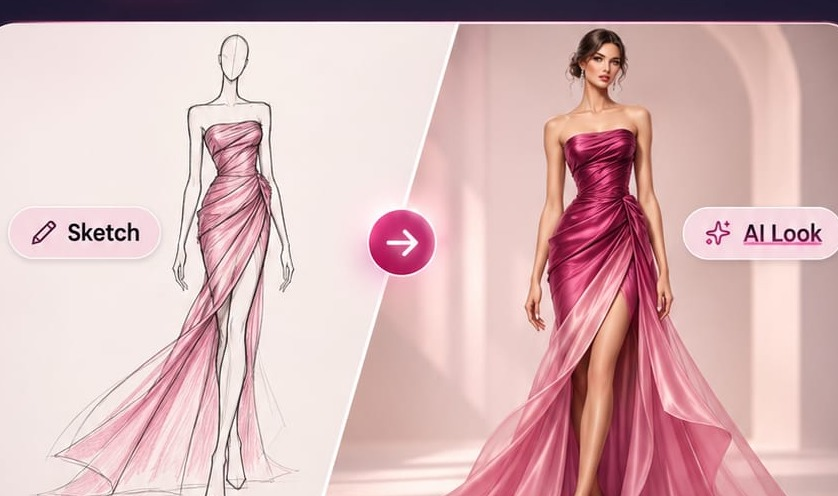
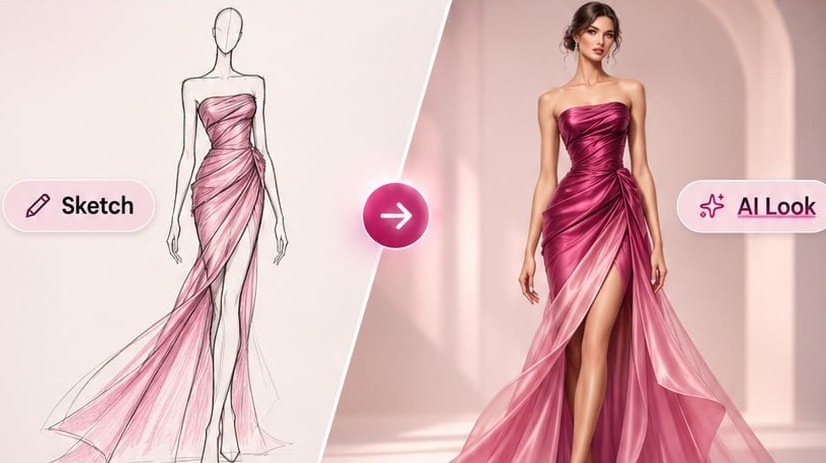
fix(web): fit Home hero composite flush inside its frame
Recrop the sketch→AI look asset and render it edge-to-edge in the
gallery viewport so it no longer floats with double padding/borders.

diff --git a/web-ui/src/shell/components/HomeBeforeAfterGallery.tsx b/web-ui/src/shell/components/HomeBeforeAfterGallery.tsx
@@ -98,7 +98,7 @@ export function HomeBeforeAfterGallery({ examples }: Props) {
           {catalog.map((example, i) => (
             <article
               key={example.id}
-              className={styles.slide}
+              className={example.composite ? styles.slideComposite : styles.slide}
               role="listitem"
               aria-label={
                 example.composite
@@ -107,7 +107,6 @@ export function HomeBeforeAfterGallery({ examples }: Props) {
               }
               data-testid={`home-gallery-slide-${example.id}`}
             >
-              <p className={styles.slideTitle}>{example.title}</p>
               {example.composite ? (
                 <figure className={styles.compositeFrame}>
                   <img
@@ -123,34 +122,37 @@ export function HomeBeforeAfterGallery({ examples }: Props) {
                   />
                 </figure>
               ) : (
-                <div className={styles.pair}>
-                  <figure className={styles.frame}>
-                    <img
-                      src={example.before.src}
-                      alt={example.before.alt}
-                      width={example.before.width}
-                      height={example.before.height}
-                      className={styles.image}
-                      loading={i === 0 ? 'eager' : 'lazy'}
-                      decoding="async"
-                      draggable={false}
-                    />
-                    <figcaption className={styles.caption}>Sketch</figcaption>
-                  </figure>
-                  <figure className={styles.frame}>
-                    <img
-                      src={example.after.src}
-                      alt={example.after.alt}
-                      width={example.after.width}
-                      height={example.after.height}
-                      className={styles.image}
-                      loading={i === 0 ? 'eager' : 'lazy'}
-                      decoding="async"
-                      draggable={false}
-                    />
-                    <figcaption className={styles.caption}>AI Look</figcaption>
-                  </figure>
-                </div>
+                <>
+                  <p className={styles.slideTitle}>{example.title}</p>
+                  <div className={styles.pair}>
+                    <figure className={styles.frame}>
+                      <img
+                        src={example.before.src}
+                        alt={example.before.alt}
+                        width={example.before.width}
+                        height={example.before.height}
+                        className={styles.image}
+                        loading={i === 0 ? 'eager' : 'lazy'}
+                        decoding="async"
+                        draggable={false}
+                      />
+                      <figcaption className={styles.caption}>Sketch</figcaption>
+                    </figure>
+                    <figure className={styles.frame}>
+                      <img
+                        src={example.after.src}
+                        alt={example.after.alt}
+                        width={example.after.width}
+                        height={example.after.height}
+                        className={styles.image}
+                        loading={i === 0 ? 'eager' : 'lazy'}
+                        decoding="async"
+                        draggable={false}
+                      />
+                      <figcaption className={styles.caption}>AI Look</figcaption>
+                    </figure>
+                  </div>
+                </>
               )}
             </article>
           ))}

diff --git a/web-ui/src/shell/components/HomeBeforeAfterGallery.module.css b/web-ui/src/shell/components/HomeBeforeAfterGallery.module.css
@@ -30,10 +30,11 @@
 
 .viewport {
   min-width: 0;
-  border-radius: 16px;
-  border: 1px solid rgba(255, 255, 255, 0.08);
-  background: rgba(255, 255, 255, 0.03);
+  border-radius: 18px;
+  border: 1px solid rgba(244, 114, 182, 0.28);
+  background: rgba(15, 22, 38, 0.55);
   overflow: hidden;
+  box-shadow: 0 12px 28px rgba(0, 0, 0, 0.28);
 }
 
 .track {
@@ -63,6 +64,16 @@
   box-sizing: border-box;
 }
 
+.slideComposite {
+  flex: 0 0 100%;
+  width: 100%;
+  min-width: 100%;
+  scroll-snap-align: start;
+  scroll-snap-stop: always;
+  padding: 0;
+  box-sizing: border-box;
+}
+
 .slideTitle {
   margin: 0 0 8px;
   font-size: 12px;
@@ -79,20 +90,20 @@
 .compositeFrame {
   margin: 0;
   min-width: 0;
+  width: 100%;
+  line-height: 0;
 }
 
 .compositeImage {
   display: block;
   width: 100%;
   height: auto;
-  aspect-ratio: 838 / 496;
+  aspect-ratio: 826 / 463;
   object-fit: cover;
-  border-radius: 14px;
-  background:
-    radial-gradient(circle at 50% 20%, rgba(214, 51, 132, 0.16), transparent 55%),
-    rgba(248, 243, 238, 0.96);
-  border: 1px solid rgba(244, 114, 182, 0.28);
-  box-shadow: 0 12px 28px rgba(0, 0, 0, 0.28);
+  object-position: center;
+  border: 0;
+  border-radius: 0;
+  background: #f4ebe6;
 }
 
 .frame {
@@ -184,6 +195,10 @@
 @media (min-width: 901px) {
   .slide {
     padding: 14px 16px;
+  }
+
+  .slideComposite {
+    padding: 0;
   }
 
   .pair {

diff --git a/web-ui/src/shell/homeAuthorizedExamples.ts b/web-ui/src/shell/homeAuthorizedExamples.ts
@@ -90,8 +90,8 @@ export const AUTHORIZED_HOME_EXAMPLES: readonly AuthorizedHomeExample[] = Object
     composite: {
       src: '/assets/ui/home/hero-pair-01.jpg',
       alt: 'One FashionRise hero: fashion sketch transforming into an AI look of a pink evening gown',
-      width: 838,
-      height: 496,
+      width: 826,
+      height: 463,
     },
     before: {
       src: '/assets/ui/home/hero-sketch-01.jpg',

diff --git a/web-ui/src/shell/components/HomeBeforeAfterGallery.test.tsx b/web-ui/src/shell/components/HomeBeforeAfterGallery.test.tsx
@@ -85,8 +85,8 @@ describe('HomeBeforeAfterGallery', () => {
       composite: {
         src: '/assets/ui/home/hero-pair-01.jpg',
         alt: 'One FashionRise hero composite',
-        width: 838,
-        height: 496,
+        width: 826,
+        height: 463,
       },
     }
     render(<HomeBeforeAfterGallery examples={[compositePair]} />)
